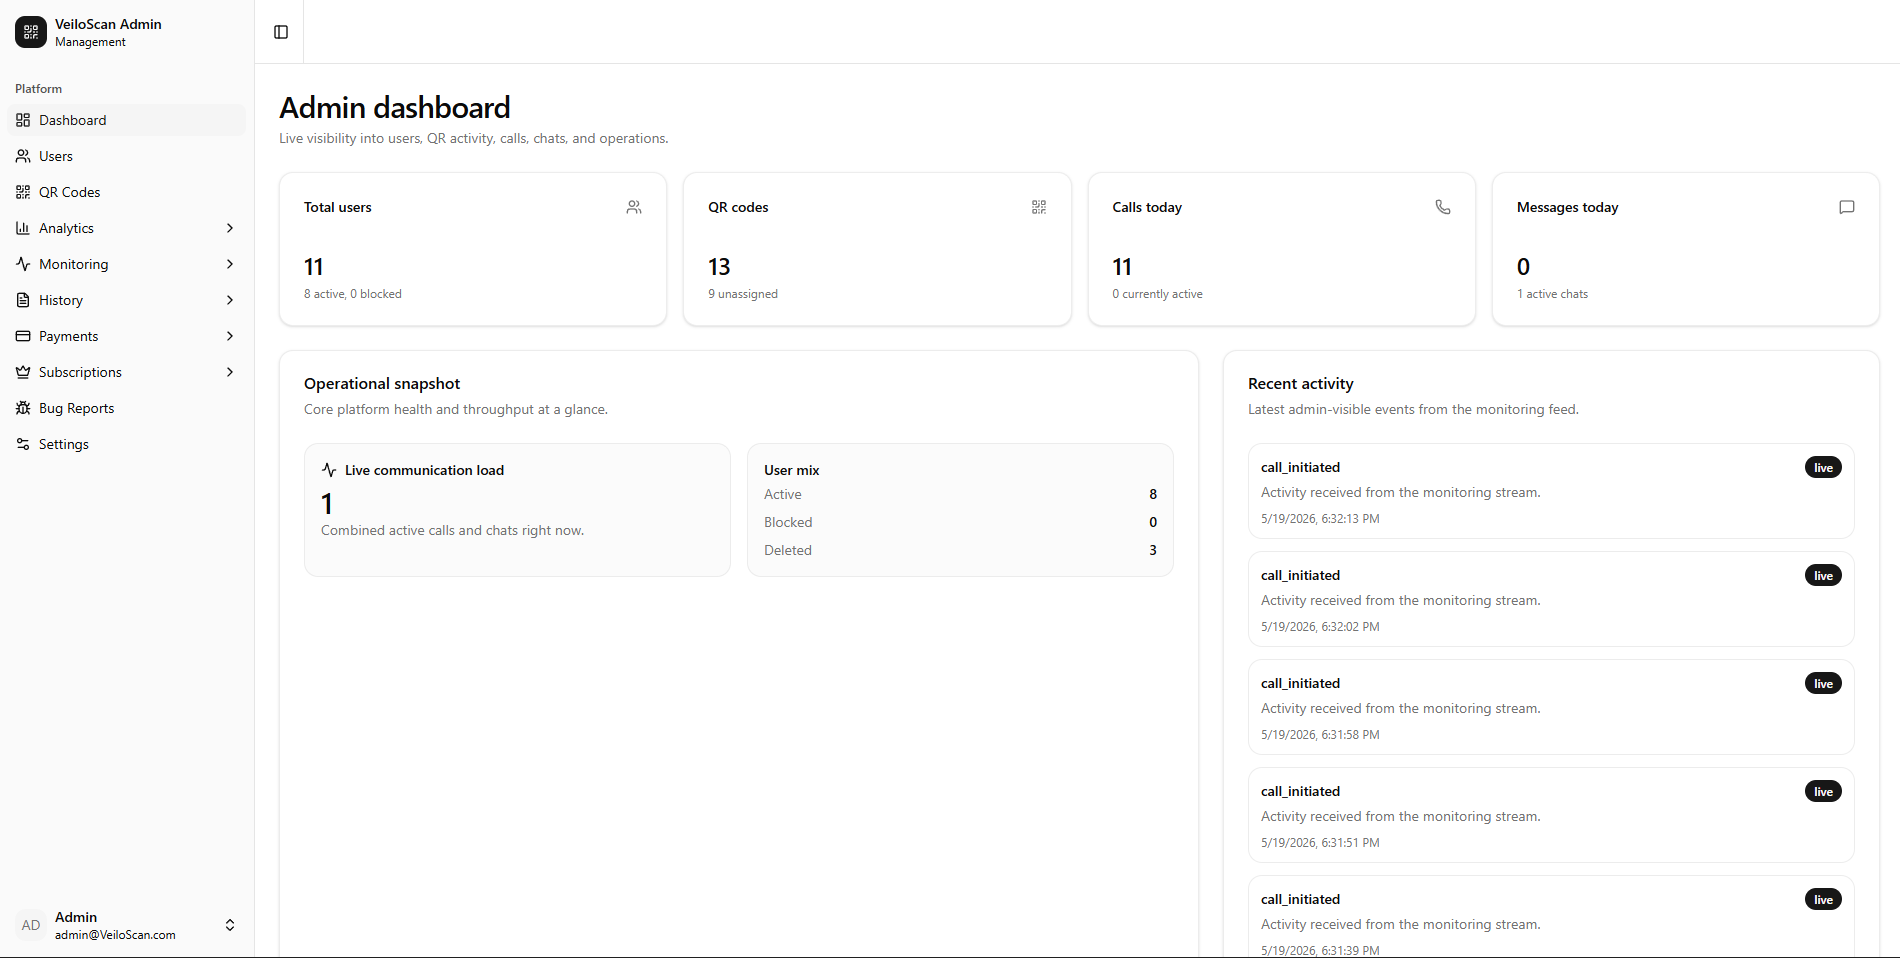
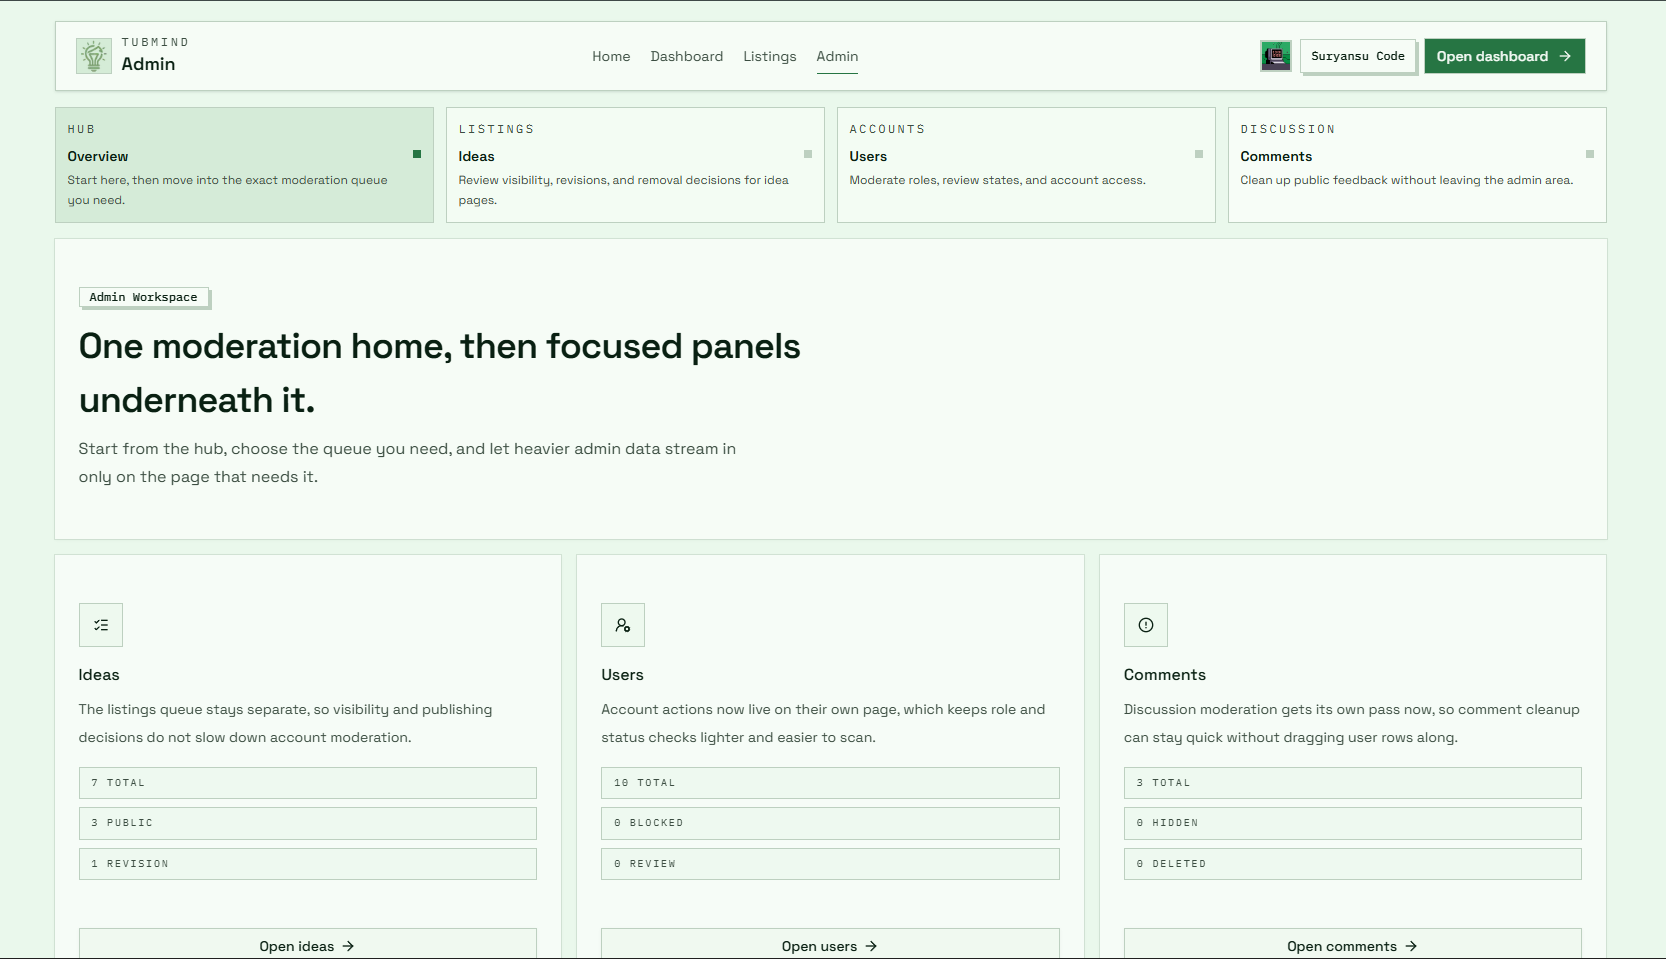
updated highlighted project to latest one, created a new component in /blocks

diff --git a/src/app/blocks/components/FillButtons.tsx b/src/app/blocks/components/FillButtons.tsx
@@ -1,0 +1,117 @@
+"use client";
+
+import { BentoGridItem } from "@/components/ui/bento-grid";
+import { Button } from "@/components/ui/button";
+import { playClickSound } from "@/components/ui/click";
+import { fillButtonsCode } from "@/constants/blocks";
+import toast from "react-hot-toast";
+import { FiArrowUpRight, FiCopy } from "react-icons/fi";
+import { VscCode } from "react-icons/vsc";
+
+const FillButtons = () => {
+    const copyCode = async (code: string, title: string) => {
+        await navigator.clipboard.writeText(code);
+        toast.success(`${title} copied! star please :)`);
+    };
+
+    return (
+        <BentoGridItem
+            className="md:col-span-4 md:row-span-3"
+            header={
+                <div className="grid h-full gap-4 md:grid-cols-[1.1fr_0.9fr]">
+                    {/* Preview Section */}
+                    <div className="flex h-full flex-col gap-2">
+                        <div className="flex gap-2 items-start justify-between">
+                            <div>
+                                <p className="text-xs font-semibold uppercase tracking-wider text-slate-500 dark:text-slate-400">
+                                    Interactive UI
+                                </p>
+                                <h2
+                                    data-cursor-hover
+                                    className="text-2xl font-bold text-slate-600 dark:text-slate-400"
+                                >
+                                    Fill Buttons
+                                </h2>
+                            </div>
+                            <a
+                                href="https://github.com/Hyperion147/new-portfolio"
+                                target="_blank"
+                                rel="noopener noreferrer"
+                                className="inline-flex items-center gap-2 text-sm font-semibold text-slate-700 dark:text-slate-300"
+                            >
+                                Source <FiArrowUpRight />
+                            </a>
+                        </div>
+                        <p className="max-w-2xl text-sm leading-6 text-slate-600 dark:text-slate-400">
+                            The Fill Buttons component replaces the standard
+                            buttons from shadcn to interactive dual-tone color
+                            buttons.
+                        </p>
+                        <div className="border w-full border-slate-300 dark:border-slate-700 text-sm font-mono tracking-wider text-slate-500 dark:text-slate-400 px-3 py-1">
+                            Note: Replace the code with buttons component after
+                            installing shadcn button.
+                        </div>
+                        <div className="border w-full border-red-700 text-sm font-mono tracking-wider text-red-500 px-3 py-1">
+                            Important:{" "}
+                            <span className="dark:text-slate-300 text-slate-700">
+                                Wrap the text with a span{" "}
+                            </span>
+                        </div>
+                        <div className="relative mt-auto overflow-hidden grid-cols-2 w-full grid gap-5 rounded-none p-4 items-center border-2 border-slate-300 bg-slate-100 dark:border-slate-700 dark:bg-slate-950">
+                            <div className="w-full gap-2 grid text-center border p-2">
+                                <p>fillDefault</p>
+                                <Button variant="fillDefault">
+                                    <span>Default</span>
+                                </Button>
+                            </div>
+                            <div className="w-full gap-2 grid text-center border p-2">
+                                <p>fillSecondary</p>
+                                <Button variant="fillSecondary">
+                                    <span>Secondary</span>
+                                </Button>
+                            </div>
+                            <div className="w-full gap-2 grid text-center border p-2">
+                                <p>fillGhost</p>
+                                <Button variant="fillGhost">
+                                    <span>Ghost</span>
+                                </Button>
+                            </div>
+                            <div className="w-full gap-2 grid text-center border p-2">
+                                <p>fillOutline</p>
+                                <Button variant="fillOutline">
+                                    <span>Outline</span>
+                                </Button>
+                            </div>
+                        </div>
+                    </div>
+
+                    {/* Code Block Section */}
+                    <div className="flex h-full flex-col overflow-hidden border-2 border-slate-300 dark:border-slate-700">
+                        <div className="flex items-center justify-between border-b-2 border-slate-300 px-3 py-2 dark:border-slate-700">
+                            <div className="flex items-center gap-2 text-xs font-semibold uppercase tracking-wider text-slate-500 dark:text-slate-400">
+                                <VscCode className="text-base" /> CODE
+                            </div>
+                            <button
+                                type="button"
+                                onClick={() => {
+                                    playClickSound();
+                                    copyCode(fillButtonsCode, "Fill Buttons");
+                                }}
+                                data-cursor-hover
+                                className="inline-flex h-8 w-8 items-center justify-center rounded-md border border-slate-300 text-slate-700 hover:shadow-[3px_3px_0px_0px_rgba(203,213,225)] dark:border-slate-700 dark:text-slate-200 dark:hover:shadow-[3px_3px_0px_0px_rgba(51,65,85)]"
+                                aria-label="Copy Blob Cursor code"
+                            >
+                                <FiCopy />
+                            </button>
+                        </div>
+                        <pre className="no-scrollbar h-60 md:h-full overflow-auto bg-white/30 p-4 text-left font-mono text-xs leading-6 text-slate-700 dark:bg-slate-950/30 dark:text-slate-300">
+                            <code>{fillButtonsCode}</code>
+                        </pre>
+                    </div>
+                </div>
+            }
+        />
+    );
+};
+
+export default FillButtons;

diff --git a/src/components/utils/HighlightedProject.jsx b/src/components/utils/HighlightedProject.jsx
@@ -5,26 +5,26 @@ import Image from "next/image";
 import { motion, AnimatePresence } from "motion/react";
 import { useGSAP } from "@gsap/react";
 import gsap from "gsap";
+import Link from "next/link";
+import { FiArrowUpRight } from "react-icons/fi";
 
 // ─── Data ─────────────────────────────────────────────────────────────────────
 
 const galleryItems = [
     {
         id: 1,
-        label: "Website",
-        src: "/highlightedProject/website.png",
-        fallback: "/highlightedProject/main.png",
+        label: "Landing",
+        src: "/highlightedProject/landing.png",
     },
     {
         id: 2,
-        label: "Marketplace",
-        src: "/highlightedProject/marketplace.png",
-        fallback: "/highlightedProject/main2.png",
+        label: "Dashboard",
+        src: "/highlightedProject/dashboard.png",
     },
     {
         id: 3,
-        label: "Mobile App",
-        src: "/highlightedProject/mobile.png",
+        label: "Listings",
+        src: "/highlightedProject/listings.png",
         fallback: "/highlightedProject/main.png",
     },
     {
@@ -37,54 +37,54 @@ const galleryItems = [
 
 const flowSteps = [
     {
-        id: "guest",
-        label: "Guest",
+        id: "landing",
+        label: "Website",
         sub: "Landing",
         stat: "Public",
     },
     {
         id: "auth",
-        label: "Auth",
+        label: "Google Auth",
         sub: "Identity",
         stat: "Secure",
     },
     {
-        id: "session",
-        label: "Session",
-        sub: "Profile",
+        id: "private",
+        label: "Private Ideas",
+        sub: "Private",
         stat: "Synced",
     },
     {
-        id: "call",
-        label: "Call/Chat",
-        sub: "Realtime",
+        id: "public",
+        label: "Public Listings",
+        sub: "Public",
         stat: "Live",
     },
     {
-        id: "market",
-        label: "Market",
-        sub: "Commerce",
+        id: "interactive",
+        label: "Tubs",
+        sub: "Interactive",
         stat: "Orders",
     },
     {
         id: "admin",
         label: "Admin",
-        sub: "Control",
+        sub: "Moderation",
         stat: "Audit",
     },
 ];
 
 const descriptions = {
-    guest: "The visitor starts with a fast public view: landing copy, QR context, and a clear route into the product without account friction.",
-    auth: "Authentication turns the anonymous scan into a trusted user session with guarded access for calls, chats, and marketplace actions.",
-    session:
-        "Session state keeps profile, permissions, and QR ownership in sync so the experience survives refreshes and device changes.",
-    call: "The core interaction opens instantly: realtime chat and WebRTC calls connect the scanner with the owner from the same flow.",
-    market: "Marketplace actions branch from the relationship layer, letting users move from discovery to listings and transactions.",
-    admin: "The admin layer closes the loop with moderation, user controls, audit visibility, and operational health checks.",
+    landing: "The visitor starts with a dashboard demo, with actual dashboard redirect button in navbar to reduce friction.",
+    auth: "Private capture by default with Google sign-in.",
+    private:
+        "Session state keeps permissions and ownership in sync so the experience survives privacy.",
+    public: "The core is listings page, where people review and comment on your code",
+    interactive: "You can create tasks, time stamps and manage tub full of ideas.",
+    admin: "The admin layer closes the loop with moderation, user controls and audit visibility",
 };
 
-const techStack = ["React", "Tailwind", "ShadCN", "WebRTC", "Socket.IO"];
+const techStack = ["React", "Tailwind", "ShadCN", "React Hook Form", "Tanstack Query", "Zustand"];
 
 // ─── Image Gallery ────────────────────────────────────────────────────────────
 
@@ -123,7 +123,6 @@ const ImageGallery = () => {
                             fill
                             className="object-contain"
                             sizes="(max-width: 768px) 100vw, 50vw"
-                            onError={() => handleError(galleryItems[active].id)}
                         />
                     </motion.div>
                 </AnimatePresence>
@@ -177,7 +176,7 @@ const ImageGallery = () => {
 };
 
 const FlowDiagram = () => {
-    const [activeStep, setActiveStep] = useState("guest");
+    const [activeStep, setActiveStep] = useState("landing");
     const containerRef = useRef(null);
     const STEP_DURATION = 4;
 
@@ -374,20 +373,20 @@ const HighlightedProject = () => {
 
                 {/* Card 2 — Project info (1 col) */}
                 <div className="hp-card md:col-span-4 border-2 border-dashed border-slate-300 dark:border-slate-700 p-4 bg-background flex flex-col md:flex-row gap-4 md:gap-6 items-start">
-                    <div className="flex flex-col shrink-0 text-start">
-                        <h3 className="text-lg font-bold text-gray-900 dark:text-white leading-tight mb-1">
-                            SSH-18
+                    <Link href="https://tubmind.space" target="_blank" className="flex flex-col shrink-0 text-start">
+                        <h3 className="text-lg font-bold text-gray-900 dark:text-white leading-tight mb-1 flex gap-1 items-center">
+                            Tubmind
+                            <FiArrowUpRight className="size-5" />
                         </h3>
                         <p className="pixeltext text-xs tracking-wide text-slate-500 dark:text-slate-400">
-                            flora.suryansu.pro
+                            tubmind.space
                         </p>
-                    </div>
+                    </Link>
 
                     <p className="text-xs text-start text-slate-600 dark:text-slate-300 leading-relaxed flex-1">
-                        A QR-based communication platform scan a code to
-                        instantly call or chat with the owner. Built with
-                        WebRTC, real-time sockets, full auth, a marketplace, and
-                        an admin panel.
+                        Tubmind is a private idea workspace for capturing rough
+                        thoughts fast, shaping them into structured concepts,
+                        and publishing the strongest ideas for feedback.
                     </p>
 
                     <div className="flex flex-wrap gap-1.5 md:max-w-70 md:justify-end">

diff --git a/src/app/blocks/page.tsx b/src/app/blocks/page.tsx
@@ -8,6 +8,7 @@ import MobilePageHeading from "@/components/utils/MobilePageHeading";
 import BlobCursor from "./components/BlobCursor";
 import ThemeClipperBlock from "./components/ThemeClipper";
 import RectTip from "./components/RectTip";
+import FillButtons from "./components/FillButtons";
 
 export default function BlocksPage() {
     // Initial page entrance animation
@@ -32,9 +33,10 @@ export default function BlocksPage() {
                         title="Blocks"
                     />
                     <BentoGrid className="blocks-grid mx-auto max-w-5xl md:auto-rows-[180px] md:grid-cols-4">
-                        <BlobCursor />
-                        <ThemeClipperBlock />
+                        <FillButtons />
                         <RectTip />
+                        <ThemeClipperBlock />
+                        <BlobCursor />
                     </BentoGrid>
                 </main>
             </div>

diff --git a/src/components/sections/Hero.jsx b/src/components/sections/Hero.jsx
@@ -52,19 +52,19 @@ const Hero = () => {
                     <p className="hero-copy text-lg font-medium text-slate-700 dark:text-slate-300">
                         20 | Frontend &gt; Fullstack
                     </p>
-                    <p className="hero-copy flex items-center gap-2 text-sm font-medium mt-2">
+                    <div className="hero-copy flex items-center gap-2 text-sm font-medium mt-2">
                         <span className="inline-block rounded-full w-2 h-2 text-xs font-medium bg-green-500 mt-0.5" />
                         <span className="flex gap-1">
                             open to
                             <TrueFocus
                                 sentence="work freelance"
                                 manualMode={false}
-                                blurAmount={2}
+                                blurAmount={3}
                                 animationDuration={0.6}
                                 pauseBetweenAnimations={1}
                             />
                         </span>
-                    </p>
+                    </div>
                 </div>
             </div>
 